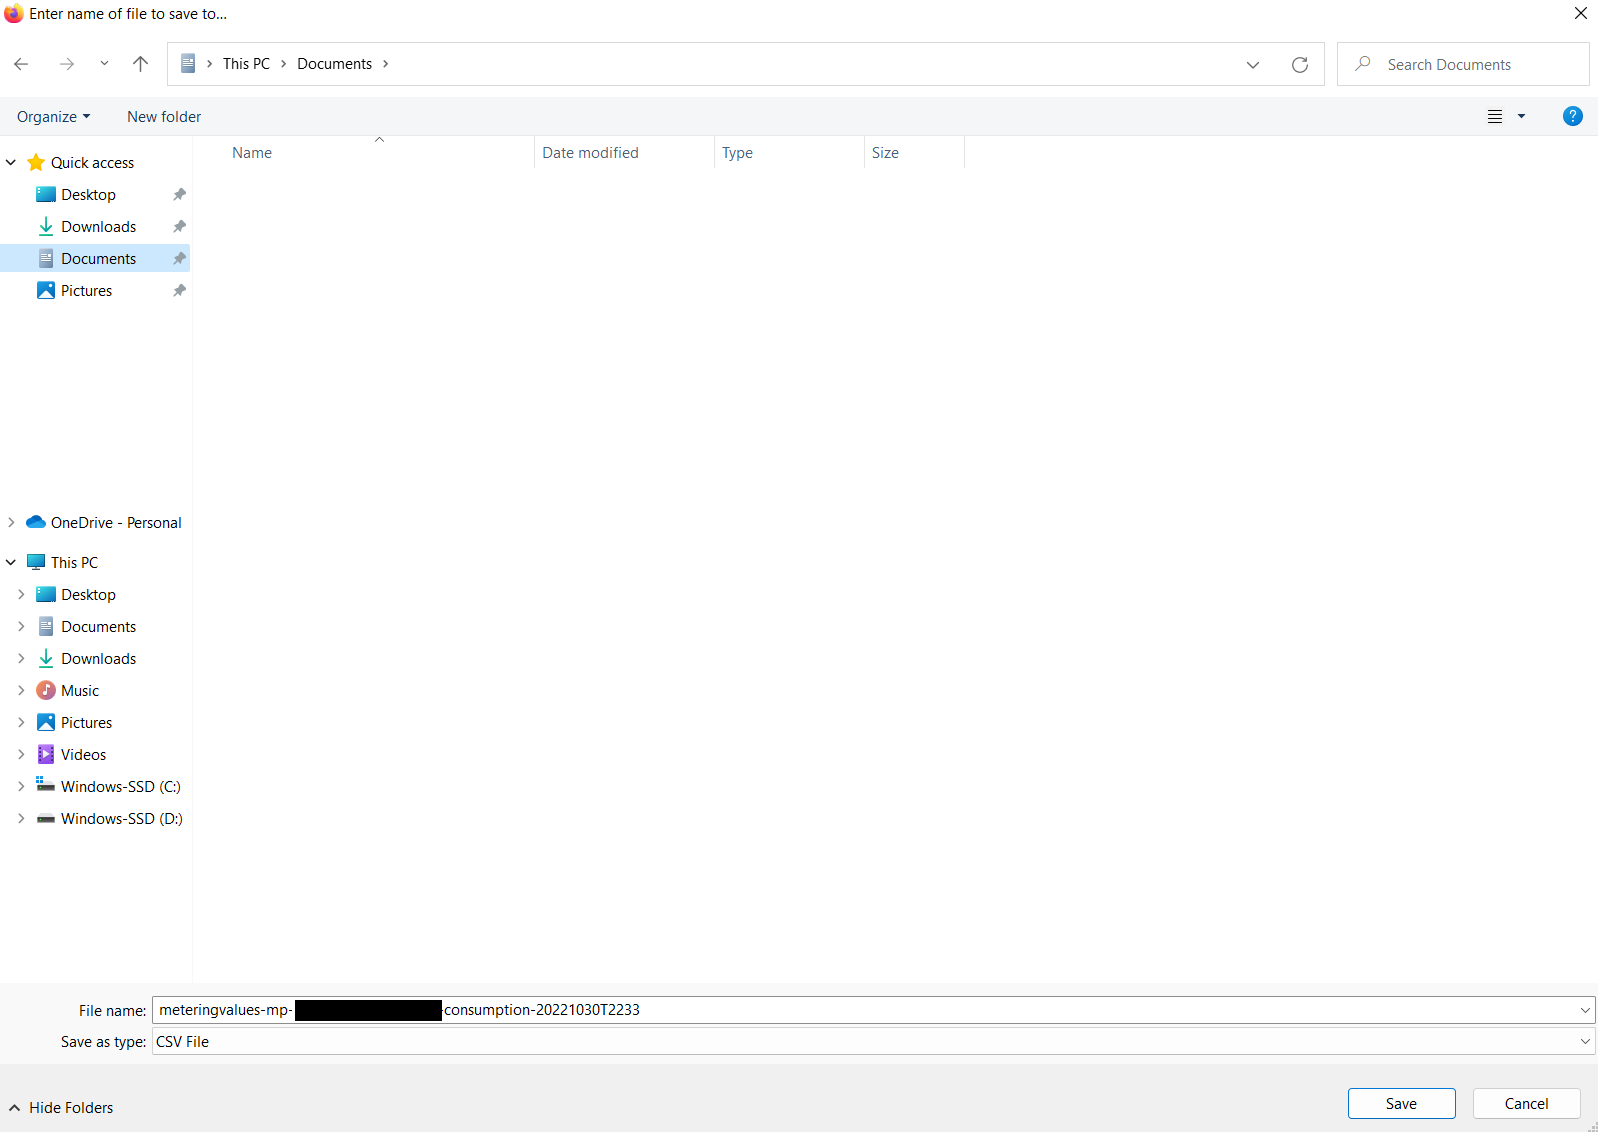
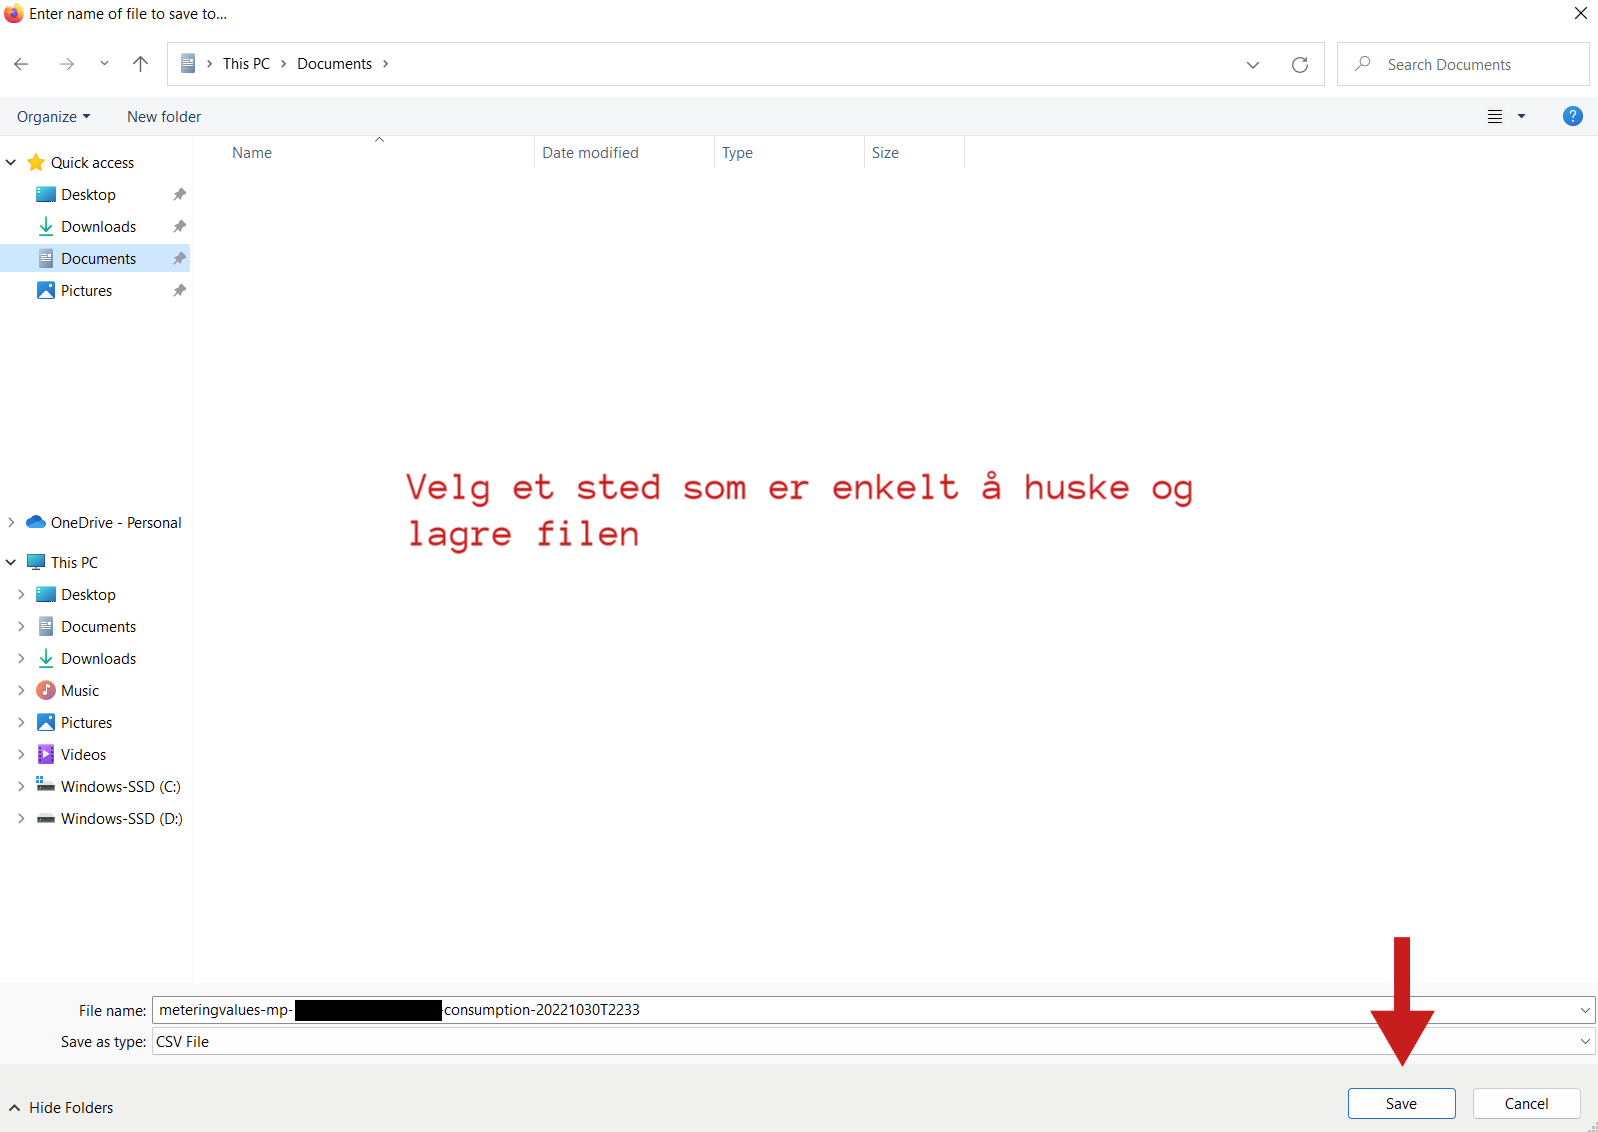
touched up a few pictures and clarified the user instructions

diff --git a/src/Components/Instructions.js b/src/Components/Instructions.js
@@ -38,15 +38,13 @@ function Instructions() {
         aria-labelledby="example-custom-modal-styling-title"
       >
         <Modal.Header closeButton className="text-danger">
-          For å bergene fakturen for deg må vi få målevardiene fra deg, Vi har
-          samlet bilder av den nøyaktige banen du må følge for å få filen
-          enkelt!
+          <h2>Slik får du frem filen som inneholder bruksverdiene dine:</h2>
         </Modal.Header>
         <Modal.Body>
           <div className="d-flex flex-column">
             <Card className="mb-3 border border-5 border-dark">
               <Card.Title className="ms-3">
-                Først må du gå til{" "}
+                1. Først må du gå til{" "}
                 <a href="http://elhub.no" target="_blank">
                   Elhub
                 </a>{" "}
